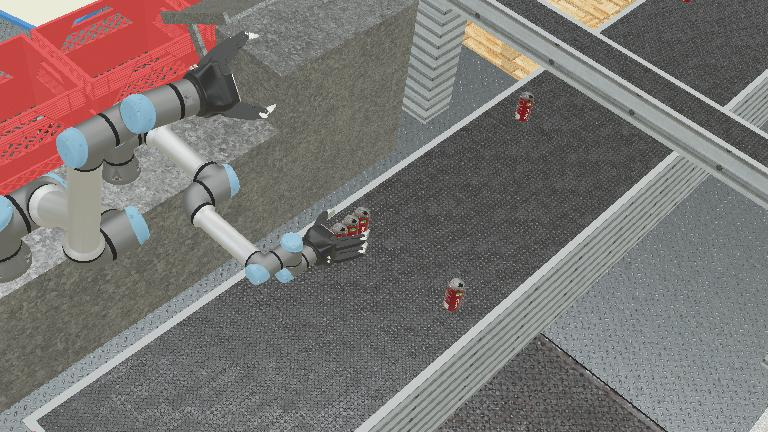
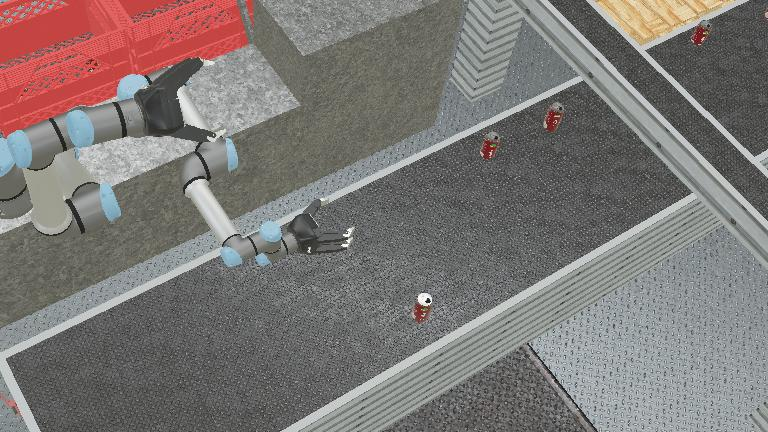
Attempt to use OpenVLA

diff --git a/universal_robots/controllers/my_controller/my_controller.py b/universal_robots/controllers/my_controller/my_controller.py
@@ -1,9 +1,61 @@
+from transformers import AutoModelForVision2Seq, AutoProcessor
+from PIL import Image
+
+import torch
+
 from controller import Robot
 
-robot = Robot()
+class MyController(Robot):
+    def __init__(self):
+        super(MyController, self).__init__()
+        self.time_step = 32  # set the control time step
 
-camera = robot.getDevice("camera")
-camera.enable(10)
+        # Get the camera device
+        self.camera = self.getDevice("camera")
+        self.camera.enable(10)
 
-while robot.step(32) != -1:
-    print("Hello World!")
+        # Load Processor & VLA
+        self.processor = AutoProcessor.from_pretrained("openvla/openvla-7b", trust_remote_code=True)
+        self.vla = AutoModelForVision2Seq.from_pretrained(
+                "openvla/openvla-v01-7b",
+                attn_implementation="flash_attention_2",  # [Optional] Requires `flash_attn`
+                torch_dtype=torch.bfloat16,
+                low_cpu_mem_usage=True,
+                trust_remote_code=True,
+                force_download=False,
+            ).to("cuda:0")
+
+    def run(self):
+        # with a parallelized control loop, it may be necessary to run an initial step to initialize sensor values
+        self.step(self.time_step)
+
+        prompt = "Grab the can coming to you"
+
+        # main control loop
+        while True:
+            # begin simulation step computation: send command values to Webots for update
+            # leave the loop when the simulation is over
+            if self.stepBegin(self.time_step) == -1:
+                break
+
+            print("Hello World!")
+
+            # Get Image
+            image = self.camera.getImage()
+            # TODO: Convert image to PIL Image
+
+            # Predict Action (7-DoF; un-normalize for BridgeV2)
+            inputs = self.processor(prompt, image).to("cuda:0", dtype=torch.bfloat16)
+            action = self.vla.predict_action(**inputs, unnorm_key="bridge_orig", do_sample=False)
+
+            print(type(action))
+            print(action)
+
+            # end simulation step computation: retrieve new sensor values from Webots
+            # leave the loop when the simulation is over
+            if self.stepEnd() == -1:
+                break
+
+# Main program
+controller = MyController()
+controller.run()
